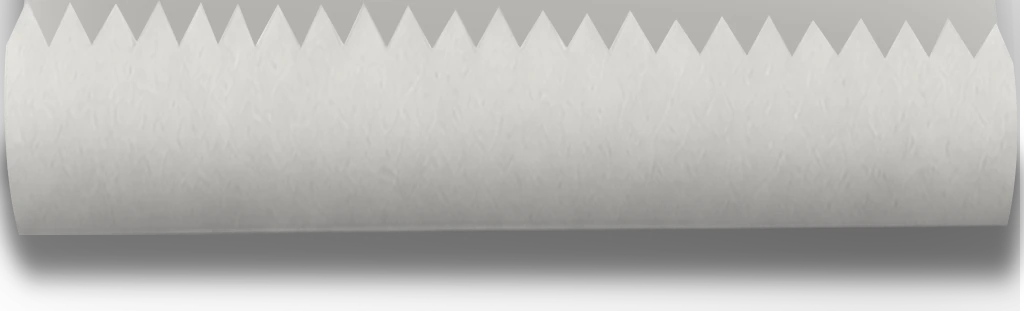
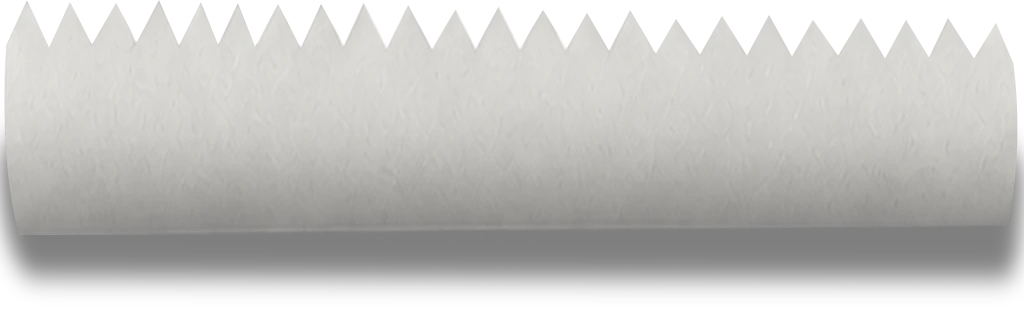
Transparent tooth gaps, warmer roll, and the dial turns with the feed
GREY LINE ABOVE THE TEETH: I cropped the asset out of the PSD's full
composite, so the gaps between the teeth were filled with the
DESIGNER'S paper rather than being transparent. On his white sheet that
is invisible; on my cream it is a grey band. Rebuilt from the curl and
its cast shadow only - no 'paper' layer - applying each layer's own
opacity by hand, since topil() ignores it. Top row is now 4/1024 opaque
instead of 1020/1024, so my cream shows between the teeth.

No recolour needed from the designer. His stock is a cool grey, mine is
cream; the roll is re-tinted onto my paper's ramp in the export.

DIAL: the thumbwheel is baked into body.webp, so rather than cut it out
and add a backing plate, a seamlessly-looping strip of its own ribs is
laid over it and scrolled. Tile measured off the art: face at
80.272%/31.761%, 119x180 = exactly 12 ribs at a 15px period, so it
loops without a seam. Driven off feed progress, NOT elapsed time, so it
turns with the paper and stops when the paper stops.
The tile comes from the middle of the face where the barrel shading is
flattest; a static gradient overlay puts the dark ends back.

Finding the face needed a flood fill from a point inside it - a plain
pink threshold kept catching the deck and the top-panel stripe and
returned a box clamped to my own search window, twice.

Bottom padding 28% -> 21%, so the logo sits right at the curl. The
client is happy for the words to run onto it.

Changed region(s): [[0.0, 0.0, 1.0, 0.5788], [0.9688, 0.492, 1.0, 0.7235]]

diff --git a/react-live/assets/ReceiptPrinter-DnYhBMFg.js b/react-live/assets/ReceiptPrinter-DnYhBMFg.js
@@ -1,0 +1,1 @@
+import{r as o,g as $,j as e}from"./index-Dh-XI5wf.js";const Fe=100,Ce=0,W=3.6,P=36,me=-1.6,Me=.45,Le=260,Oe=.88,we=.78,_=22,Se=F=>1.5+3.4*Math.pow(F/(_-1),1.2),De=1024,Ie=311,Be=.743,je=1.6,ke=7.5,$e={badge:"YOU'RE WORTH IT",title:"AMBER AFTER DARK",subtitle:"THANK YOU FOR TRUSTING ME",photos:[{label:"AFTER",src:null}],whyHeading:null,reasons:[{icon:"ruler",heading:"CUSTOM FIT",detail:["Short Almond soft-gel tips","L 2/5/4/6/9 • R 2/5/4/6/9"],note:"TEN TIPS INDIVIDUALLY MATCHED TO YOUR NAIL BEDS"},{icon:"bottle",heading:"PRODUCTS USED",detail:["LUXA base gel • Magpie Beauty builder gel","HONA color gels • Function of Vex art gel • LUXA glossy top coat"],note:"PRO PRODUCTS CHOSEN FOR STRENGTH, COLOR PAYOFF + SHINE"},{icon:"brush",heading:"HAND-PAINTED ART",detail:["10 nails • 4–6 art layers"],note:"PAINTED INDIVIDUALLY BY HAND, NOT PRINTED"},{icon:"clock",heading:"STUDIO TIME",detail:["3 hr 10 min"],note:"SIZING, SHAPING, PAINTING, CURING + DETAIL WORK"},{icon:"spark",heading:"PREP + FINISH",detail:["Cuticle-area refining • sidewall shaping","sealed free edge • high-shine top coat"],note:"FINISHED FOR A CLEAN, DURABLE, REUSABLE SET"}],price:"$95",signoff:"You're worth it",logo:"WORTH IT"},ye={ruler:"M3 9.5h18v5H3z M7 9.5v2.6 M10.2 9.5v3.4 M13.4 9.5v2.6 M16.6 9.5v3.4",bottle:"M10 3h4v3h-4z M9.2 6h5.6v13a2 2 0 0 1-2 2h-1.6a2 2 0 0 1-2-2z",brush:"M6 18c2-1 3-3 3-5l6-7 3 3-7 6c-2 0-4 1-5 3z",gem:"M5 10h14l-7 9z M5 10l3-4h8l3 4",clock:"M12 5a7 7 0 1 0 0 14 7 7 0 0 0 0-14z M12 8v4l3 2",spark:"M12 4l1.8 5.2L19 11l-5.2 1.8L12 18l-1.8-5.2L5 11l5.2-1.8z"};function ve(){let F=null;const c=()=>{if(typeof window>"u")return null;if(!F){const n=window.AudioContext||window.webkitAudioContext;if(!n)return null;F=new n}return F.state==="suspended"&&F.resume(),F},G=(n,a)=>{const r=Math.floor(n.sampleRate*a),i=n.createBuffer(1,r,n.sampleRate),u=i.getChannelData(0);for(let d=0;d<r;d++)u[d]=Math.random()*2-1;return i};return{unlock:c,feed(n,a){const r=c();if(!r)return;const i=r.currentTime,u=a/n,d=r.createOscillator();d.type="square",d.frequency.setValueAtTime(196,i),d.frequency.linearRampToValueAtTime(208,i+n);const O=r.createBiquadFilter();O.type="bandpass",O.frequency.value=1500,O.Q.value=.7;const w=r.createGain();w.gain.value=0;const T=r.createOscillator();T.type="square",T.frequency.value=u;const q=r.createGain();q.gain.value=.028,T.connect(q),q.connect(w.gain);const p=r.createGain();p.gain.setValueAtTime(1e-4,i),p.gain.linearRampToValueAtTime(1,i+.08),p.gain.setValueAtTime(1,i+n-.12),p.gain.linearRampToValueAtTime(1e-4,i+n),d.connect(O),O.connect(w),w.connect(p),p.connect(r.destination),d.start(i),d.stop(i+n+.02),T.start(i),T.stop(i+n+.02);const f=r.createBufferSource();f.buffer=G(r,n);const S=r.createBiquadFilter();S.type="highpass",S.frequency.value=4200;const v=r.createGain();v.gain.setValueAtTime(1e-4,i),v.gain.linearRampToValueAtTime(.035,i+.15),v.gain.setValueAtTime(.035,i+n-.15),v.gain.linearRampToValueAtTime(1e-4,i+n),f.connect(S),S.connect(v),v.connect(r.destination),f.start(i),f.stop(i+n)},tick(){const n=c();if(!n)return;const a=n.currentTime,r=n.createBufferSource();r.buffer=G(n,.03);const i=n.createBiquadFilter();i.type="bandpass",i.frequency.value=1900,i.Q.value=1.4;const u=n.createGain();u.gain.setValueAtTime(.055,a),u.gain.exponentialRampToValueAtTime(5e-4,a+.03),r.connect(i),i.connect(u),u.connect(n.destination),r.start(a),r.stop(a+.035)},beep(){const n=c();if(!n)return;const a=n.currentTime;[0,.14].forEach((r,i)=>{const u=n.createOscillator(),d=n.createGain();u.type="square",u.frequency.value=i?1180:880,d.gain.setValueAtTime(1e-4,a+r),d.gain.linearRampToValueAtTime(.07,a+r+.012),d.gain.exponentialRampToValueAtTime(1e-4,a+r+.1),u.connect(d),d.connect(n.destination),u.start(a+r),u.stop(a+r+.11)})}}}const Ue=o.forwardRef(function({receipt:c=$e,paperSrc:G=null,printerSrc:n=null,printerLayers:a=null,sound:r=!0,autoPlay:i=!1,playOnView:u=!0,mode:d="eject-up",scrollLength:O=Le,onComplete:w,className:T=""},q){var he;const p=d==="auto-down",f=d==="scroll-down"||p,S=o.useRef(null),v=o.useRef(null),oe=o.useRef(null),se=o.useRef(null),ae=o.useRef(null),C=o.useRef(null),K=o.useRef(null),Q=o.useRef(null),V=o.useRef(null),D=o.useRef(null),X=o.useRef(null),I=o.useRef(null),M=o.useRef(null),Z=o.useRef(r);o.useEffect(()=>{Z.current=r},[r]);const Re=o.useId().replace(/:/g,""),H=t=>`${t}-${Re}`,B=t=>`url(#${H(t)})`,ce=o.useCallback(()=>{var t;Z.current&&((t=M.current)==null||t.feed(W,P))},[]),J=o.useCallback(()=>{var t;Z.current&&((t=M.current)==null||t.beep())},[]),de=o.useCallback(()=>{var t;Z.current&&((t=M.current)==null||t.tick())},[]);o.useEffect(()=>{if(!f)return;M.current=M.current||ve();const t=S.current,s=ae.current;if(!s||!p&&!t)return;const l=()=>{var x;(x=M.current)==null||x.unlock()};window.addEventListener("pointerdown",l,{once:!0,passive:!0}),window.addEventListener("touchstart",l,{once:!0,passive:!0});const R=x=>{const g=C.current?C.current.clientHeight:0,A=v.current;if(!g||!A)return 0;const L=s.offsetTop+x*s.getBoundingClientRect().height;return Math.max(0,L-g*we)};let j=0,E=-1;const z=x=>{const g=Math.round(x*P),A=g/P;s.style.setProperty("--rp-feed",A),!p&&v.current&&(v.current.style.transform=`translateY(${-R(A).toFixed(2)}px)`),s.style.setProperty("--rp-curl",`${(A*Me).toFixed(3)}deg`),g!==E&&(g>E&&g>0&&de(),g===P&&E>=0&&E<P&&(J(),w==null||w()),E=g)};if(p){const x=()=>{const b=s.getBoundingClientRect().top;let m=null;for(const N of[".rp-seg-last",".rp-tail"]){const U=s.querySelector(N);if(U){const Y=U.getBoundingClientRect().bottom;m=m===null?Y:Math.max(m,Y)}}return m===null?s.getBoundingClientRect().height:m-b},g=()=>{const b=C.current;if(!b)return;const m=oe.current;if(m){const N=m.firstElementChild?m.firstElementChild.getBoundingClientRect().height:0;if(N>0){const U=N/_;s.style.setProperty("--rp-seg-h",`${U.toFixed(3)}px`);const Y=s.getBoundingClientRect().width,be=Y*(Ie/De)*Be;s.style.setProperty("--rp-roll-r",`${(Y*.06).toFixed(3)}px`);const ge=Math.min(.5,be/N);s.style.setProperty("--rp-roll-start",(1-ge).toFixed(5)),s.style.setProperty("--rp-roll-inv",(1/ge).toFixed(4))}}b.style.height=`${s.offsetTop+x()+24}px`};g();let A=!1;const L=()=>{A=!0};window.addEventListener("wheel",L,{passive:!0}),window.addEventListener("touchstart",L,{passive:!0}),window.addEventListener("keydown",L);const Te=s.getBoundingClientRect().top+window.scrollY,fe=x();let ne=null,re=0,ie=!1;const le=b=>{D.current&&(D.current.style.filter=`brightness(${b})`)},pe=b=>{if(ie)return;ne===null&&(ne=b);const m=(b-ne)/1e3;if(m<je)le(1+.55*Math.abs(Math.sin(m*3.2))),z(0);else{const N=Math.min(1,(m-je)/ke);if(le(N<1?1+.75*Math.abs(Math.sin(m*9)):1),z(N),se.current&&(se.current.style.backgroundPosition=`0 ${(N*fe*.55).toFixed(1)}px`),!A){const U=Te+N*fe;window.scrollTo(0,Math.max(0,U-window.innerHeight*we))}if(N>=1){le(1),ie=!0;return}}re=requestAnimationFrame(pe)};re=requestAnimationFrame(pe);const xe=()=>{g(),z(E/P)};return window.addEventListener("resize",xe),()=>{ie=!0,cancelAnimationFrame(re),window.removeEventListener("resize",xe),window.removeEventListener("wheel",L),window.removeEventListener("touchstart",L),window.removeEventListener("keydown",L),window.removeEventListener("pointerdown",l),window.removeEventListener("touchstart",l)}}const h=()=>{j=0;const x=t.getBoundingClientRect(),g=x.height-window.innerHeight,A=g<=0?0:-x.top/g;z(Math.min(1,Math.max(0,A/Oe)))},y=()=>{j||(j=requestAnimationFrame(h))};return h(),window.addEventListener("scroll",y,{passive:!0}),window.addEventListener("resize",y),()=>{window.removeEventListener("scroll",y),window.removeEventListener("resize",y),window.removeEventListener("pointerdown",l),window.removeEventListener("touchstart",l),j&&cancelAnimationFrame(j)}},[f,p,de,J,w]),o.useLayoutEffect(()=>{if(f)return;M.current=ve();const t=$.context(()=>{const s=K.current,l=Q.current,R=()=>{$.set(s,{x:0,y:0,rotation:0}),$.set(l,{yPercent:Fe,rotation:0}),$.set(V.current,{y:0,scale:1,transformOrigin:"111px 214px"}),$.set(D.current,{opacity:.35}),$.set(X.current,{opacity:.12})};R();const j=$.timeline({paused:!0,defaults:{ease:"power2.out"},onComplete:()=>w==null?void 0:w()});j.to(V.current,{scale:.9,y:3,duration:.07,ease:"power3.in"},0).to(V.current,{scale:1,y:0,duration:.2,ease:"back.out(2.4)"},.07).to(D.current,{opacity:1,duration:.12},.05).to(X.current,{opacity:.5,duration:.12},.05),j.add("feed",.34).call(ce,null,"feed").to(l,{yPercent:Ce,duration:W,ease:`steps(${P})`},"feed").to(l,{rotation:me,duration:W,ease:"power2.in"},"feed").to(s,{x:.9,y:-.6,duration:.055,repeat:Math.round(W/.055),yoyo:!0,ease:"none"},"feed"),j.add("done",`feed+=${W}`).set(s,{x:0,y:0},"done").call(J,null,"done").to(l,{rotation:me*.55,duration:.55,ease:"power2.out"},"done").to(D.current,{opacity:.35,duration:.4},"done+=0.3").to(X.current,{opacity:.12,duration:.4},"done+=0.3"),I.current=j,I.current.__reset=R},C);return()=>{t.revert(),I.current=null}},[f,w,ce,J]);const k=o.useCallback(()=>{var s,l;const t=I.current;if(t){if((s=M.current)==null||s.unlock(),(l=t.__reset)==null||l.call(t),window.matchMedia("(prefers-reduced-motion: reduce)").matches){t.progress(1);return}t.restart()}},[]);o.useImperativeHandle(q,()=>({play:k,reset:()=>{var t,s,l;(t=I.current)==null||t.pause(0),(l=(s=I.current)==null?void 0:s.__reset)==null||l.call(s)},get timeline(){return I.current}}),[k]),o.useEffect(()=>{i&&!f&&k()},[i,f,k]),o.useEffect(()=>{if(f||!u||i||!C.current)return;const t=C.current,s=new IntersectionObserver(l=>{l.forEach(R=>{R.isIntersecting&&(k(),s.disconnect())})},{threshold:.35});return s.observe(t),()=>s.disconnect()},[f,u,i,k]);const Ee="./printer/curl.webp",Ne="./printer/dial.webp";(()=>{const j=h=>2.6*(1-Math.sin(Math.PI*Math.min(1,Math.max(0,h)))),E=[];for(let h=0;h<=14;h++){const y=h/14;E.push(`${(100-j(y)).toFixed(2)}% ${(y*(100-1.5)).toFixed(2)}%`)}for(let h=28;h>=0;h--){const y=h/28,x=100-1.5*(1-Math.sin(Math.PI*y));E.push(`${(y*100).toFixed(2)}% ${(h%2?x:x-1.26).toFixed(2)}%`)}for(let h=14;h>=0;h--){const y=h/14;E.push(`${j(y).toFixed(2)}% ${(y*(100-1.5)).toFixed(2)}%`)}return`polygon(${E.join(",")})`})();const Ae=t=>{let s=null;for(let l=_-1;l>=0;l--){const R=s;s=e.jsxs("div",{className:`rp-seg${l===_-1?" rp-seg-last":""}`,style:{"--i":l,"--a":`${Se(l).toFixed(2)}deg`},children:[e.jsx("div",{className:"rp-seg-win",children:e.jsx("div",{className:"rp-seg-slide","aria-hidden":"true",children:t})}),l===_-1?e.jsx("div",{className:"rp-tail-win","aria-hidden":"true",children:e.jsx("img",{className:"rp-tail",src:Ee,alt:"",draggable:"false"})}):null,R]},l)}return s},ee=c.photos||[],te=G?e.jsx("img",{src:G,alt:"",draggable:"false"}):e.jsxs("div",{className:"rp-receipt",children:[e.jsx("div",{className:"rp-badge",children:c.badge}),c.title?e.jsxs("div",{className:"rp-title",children:[c.title," ",e.jsx("span",{"aria-hidden":"true",children:"♡"})]}):null,e.jsx("div",{className:"rp-dots"}),c.subtitle?e.jsx("div",{className:"rp-subtitle",children:c.subtitle}):null,ee.length?e.jsxs("div",{className:`rp-shots ${ee.length>1?"rp-shots-pair":"rp-shots-one"}`,children:[ee.map((t,s)=>e.jsxs("figure",{className:"rp-shot",children:[e.jsx("figcaption",{children:t.label}),e.jsx("div",{className:"rp-shot-img",children:t.src?e.jsx("img",{src:t.src,alt:t.alt||"",draggable:"false"}):null})]},s)),ee.length>1?e.jsx("span",{className:"rp-arrow","aria-hidden":"true",children:"→"}):null]}):null,e.jsx("div",{className:"rp-dots"}),c.whyHeading?e.jsx("div",{className:"rp-why",children:c.whyHeading}):null,e.jsx("ul",{className:"rp-reasons",children:(he=c.reasons)==null?void 0:he.map((t,s)=>e.jsxs("li",{children:[e.jsx("span",{className:"rp-icon","aria-hidden":"true",children:e.jsx("svg",{viewBox:"0 0 24 24",fill:"none",stroke:"currentColor",strokeWidth:"1.6",strokeLinecap:"round",strokeLinejoin:"round",children:e.jsx("path",{d:ye[t.icon]||ye.spark})})}),e.jsxs("span",{className:"rp-reason-text",children:[e.jsx("b",{children:t.heading||t.title}),(t.detail||[]).map((l,R)=>e.jsx("i",{children:l},R)),t.note?e.jsx("small",{children:t.note}):null]})]},s))}),e.jsx("div",{className:"rp-dots"}),c.price?e.jsx("div",{className:"rp-price",children:c.price}):null,c.signoff?e.jsxs("div",{className:"rp-sign",children:[c.signoff," ",e.jsx("span",{"aria-hidden":"true",children:"♡"})]}):null,c.logo?e.jsx("div",{className:"rp-logo",children:c.logo}):null]}),ue=a?e.jsxs("div",{className:"rp-body rp-body-layers",ref:K,children:[e.jsx("img",{className:"rp-layer",src:a.backing,alt:"",draggable:"false"}),e.jsx("img",{className:"rp-layer",src:a.body,alt:"",draggable:"false"}),e.jsx("img",{className:"rp-layer rp-layer-button",src:a.button,alt:"",ref:V,draggable:"false"}),e.jsx("img",{className:"rp-layer",src:a.lamp,alt:"",ref:D,draggable:"false"}),e.jsx("div",{className:"rp-dial",ref:se,"aria-hidden":"true",style:{backgroundImage:`url(${Ne})`}})]}):n?e.jsx("img",{className:"rp-body",src:n,alt:"",ref:K,draggable:"false"}):e.jsxs("svg",{className:"rp-body",ref:K,viewBox:"0 0 600 381",xmlns:"http://www.w3.org/2000/svg","aria-hidden":"true",children:[e.jsxs("defs",{children:[e.jsxs("linearGradient",{id:H("shell"),x1:"0",y1:"0",x2:"0",y2:"1",children:[e.jsx("stop",{offset:"0",stopColor:"#F6EFE4"}),e.jsx("stop",{offset:"1",stopColor:"#E4D8C7"})]}),e.jsxs("linearGradient",{id:H("deck"),x1:"0",y1:"0",x2:"0",y2:"1",children:[e.jsx("stop",{offset:"0",stopColor:"#EFE6D8"}),e.jsx("stop",{offset:"1",stopColor:"#DDD0BD"})]}),e.jsxs("linearGradient",{id:H("base"),x1:"0",y1:"0",x2:"0",y2:"1",children:[e.jsx("stop",{offset:"0",stopColor:"#8FB6DA"}),e.jsx("stop",{offset:"1",stopColor:"#6E97C2"})]}),e.jsxs("linearGradient",{id:H("slot"),x1:"0",y1:"0",x2:"0",y2:"1",children:[e.jsx("stop",{offset:"0",stopColor:"#33465d"}),e.jsx("stop",{offset:"1",stopColor:"#151f2c"})]}),e.jsx("filter",{id:H("soft"),x:"-30%",y:"-30%",width:"160%",height:"160%",children:e.jsx("feGaussianBlur",{stdDeviation:"6"})})]}),e.jsxs("g",{transform:"translate(-46.154, 0) scale(1.153846)",children:[f?null:e.jsx("ellipse",{cx:"300",cy:"316",rx:"222",ry:"12",fill:"#000",opacity:"0.13",filter:B("soft")}),e.jsx("rect",{x:"76",y:"238",width:"448",height:"72",rx:"26",fill:B("base")}),e.jsx("rect",{x:"76",y:"238",width:"448",height:"12",rx:"6",fill:"#A8C8E4",opacity:"0.5"}),e.jsx("rect",{x:"52",y:"96",width:"496",height:"166",rx:"28",fill:B("shell")}),e.jsx("rect",{x:"40",y:"52",width:"520",height:"60",rx:"24",fill:B("deck")}),e.jsx("rect",{x:"58",y:"60",width:"484",height:"12",rx:"6",fill:"#FFFBF4",opacity:"0.6"}),f?e.jsxs("g",{children:[e.jsx("rect",{x:"150",y:"284",width:"300",height:"18",rx:"7",fill:B("slot")}),e.jsx("rect",{x:"150",y:"284",width:"300",height:"6",rx:"3",fill:"#0c1219",opacity:"0.55"}),e.jsx("rect",{x:"146",y:"300",width:"308",height:"9",rx:"4.5",fill:"#5C82AC"}),e.jsx("rect",{x:"122",y:"282",width:"26",height:"22",rx:"7",fill:"#7FA6CC"}),e.jsx("rect",{x:"452",y:"282",width:"26",height:"22",rx:"7",fill:"#7FA6CC"})]}):e.jsxs("g",{children:[e.jsx("rect",{x:"150",y:"56",width:"300",height:"20",rx:"7",fill:B("slot")}),e.jsx("rect",{x:"150",y:"70",width:"300",height:"6",rx:"3",fill:"#0c1219",opacity:"0.55"}),e.jsx("rect",{x:"146",y:"76",width:"308",height:"9",rx:"4.5",fill:"#CBBCA6"}),e.jsx("rect",{x:"122",y:"56",width:"26",height:"22",rx:"7",fill:"#C3B39C"}),e.jsx("rect",{x:"452",y:"56",width:"26",height:"22",rx:"7",fill:"#C3B39C"})]}),e.jsxs("g",{ref:V,children:[e.jsx("circle",{cx:"111",cy:"218",r:"27",fill:"#C9B9A6"}),e.jsx("circle",{cx:"111",cy:"214",r:"25",fill:"#E9A9B2"}),e.jsx("circle",{cx:"111",cy:"209",r:"21",fill:"#F0B8C0"})]}),e.jsxs("g",{children:[e.jsx("rect",{x:"452",y:"196",width:"62",height:"24",rx:"12",fill:"#C8B49A"}),e.jsx("rect",{x:"455",y:"199",width:"56",height:"18",rx:"9",fill:"#2b2118"}),e.jsx("circle",{ref:X,cx:"483",cy:"208",r:"17",fill:"#5FBF7A",opacity:"0.12",filter:B("soft")}),e.jsx("circle",{ref:D,cx:"483",cy:"208",r:"7",fill:"#5FBF7A",opacity:"0.35"})]}),e.jsxs("g",{fill:"#D8C9B4",children:[e.jsx("rect",{x:"168",y:"150",width:"170",height:"8",rx:"4"}),e.jsx("rect",{x:"168",y:"172",width:"170",height:"8",rx:"4"}),e.jsx("rect",{x:"168",y:"194",width:"124",height:"8",rx:"4"})]})]})]});if(f){const t=p?({children:s})=>e.jsx("div",{className:`rp-auto ${T}`,children:s}):({children:s})=>e.jsx("div",{className:`rp-scroll ${T}`,ref:S,style:{height:`${O}svh`},children:s});return e.jsx(t,{children:e.jsx("div",{className:p?"rp-flow":"rp-sticky",children:e.jsx("div",{className:`rp-stage rp-stage-down ${p?"rp-stage-auto":""}`,ref:C,children:e.jsxs("div",{className:`rp-machine ${a?"rp-machine-art":""}`,ref:v,children:[ue,a?e.jsx("div",{className:"rp-slot-cover","aria-hidden":"true"}):null,a?e.jsx("div",{className:"rp-slot-mouth","aria-hidden":"true"}):null,e.jsxs("div",{className:"rp-feed",ref:ae,children:[a?e.jsxs("div",{className:"rp-curl",style:{"--n":_},children:[e.jsx("div",{className:"rp-measure",ref:oe,children:e.jsx("div",{className:"rp-paper rp-paper-down",children:te})}),Ae(e.jsx("div",{className:"rp-paper rp-paper-down",ref:Q,children:te}))]}):e.jsx("div",{className:"rp-paper rp-paper-down",ref:Q,children:te}),e.jsx("div",{className:"rp-lead","aria-hidden":"true"})]})]})})})})}return e.jsxs("div",{className:`rp-stage ${T}`,ref:C,onClick:k,children:[e.jsx("div",{className:"rp-paper-stage",children:e.jsx("div",{className:"rp-paper",ref:Q,children:te})}),ue]})});export{Ue as R};

diff --git a/react-live/assets/ReceiptPrinter-BjAdDi67.css b/react-live/assets/ReceiptPrinter-BjAdDi67.css
@@ -1,0 +1,1 @@
+.rp-stage{--rp-body-top: 50.54%;--rp-slot-y: 59.46%;--rp-ink: #14315C;--rp-pink: #E0658F;--rp-paper: #FCFAF5;position:relative;width:100%;aspect-ratio:600 / 930;margin:0 auto;isolation:isolate;container-type:inline-size;overflow:hidden;touch-action:manipulation;cursor:pointer}.rp-stage *{box-sizing:border-box}.rp-body{position:absolute;top:var(--rp-body-top);left:0;width:100%;height:auto;will-change:transform;z-index:3}.rp-paper-stage{position:absolute;left:0;right:0;top:0;height:var(--rp-slot-y);overflow:hidden;z-index:2;pointer-events:none}.rp-paper{position:absolute;bottom:0;left:21.5%;width:56.9%;aspect-ratio:296 / 460;background:var(--rp-paper);transform-origin:50% 100%;will-change:transform;backface-visibility:hidden;filter:drop-shadow(0 -2px 3px rgba(20,25,35,.13)) drop-shadow(0 -10px 20px rgba(20,25,35,.14))}.rp-paper img{display:block;width:100%;height:100%;object-fit:cover}.rp-paper:before{content:"";position:absolute;top:0;right:0;bottom:0;left:0;background:linear-gradient(100deg,#0000000d,#0000 18%,#0000 82%,#0000000d);pointer-events:none;z-index:3}.rp-receipt{position:absolute;top:0;right:0;bottom:0;left:0;padding:8% 9%;display:flex;flex-direction:column;font-family:SFMono-Regular,ui-monospace,Menlo,Consolas,Courier New,monospace;color:#3d3a35;font-size:2.05cqw;line-height:1.8;letter-spacing:.02em}.rp-head{text-align:center;font-weight:800;letter-spacing:.22em;text-indent:.22em;font-size:3.1cqw;color:var(--rp-ink);margin-bottom:2%}.rp-meta{text-align:center;color:#8d877e;font-size:1.85cqw;line-height:1.6}.rp-rule{border-top:1px dashed #c9c2b6;margin:4.5% 0 3.5%}.rp-row{display:flex;justify-content:space-between;align-items:baseline;gap:6%;line-height:1.45;margin-bottom:1.4%}.rp-row span:first-child{min-width:0;overflow-wrap:anywhere}.rp-row span:last-child{flex:none;white-space:nowrap;font-variant-numeric:tabular-nums}.rp-total{font-weight:800;color:var(--rp-ink);font-size:2.5cqw;margin-top:2%}.rp-barcode{display:flex;align-items:flex-end;gap:2px;height:9%;margin:auto 0 4%}.rp-barcode i{display:block;height:100%;background:#3d3a35}.rp-foot{text-align:center;color:var(--rp-pink);font-family:Snell Roundhand,Segoe Script,Brush Script MT,cursive;font-style:italic;font-size:3cqw}.rp-scroll{position:relative;width:100%}.rp-sticky{position:sticky;top:0;height:100svh;display:flex;align-items:flex-start;justify-content:center}.rp-stage-down{position:relative;width:100%;height:100svh;aspect-ratio:auto;overflow:hidden}.rp-machine{will-change:transform}.rp-machine{position:relative;width:100%}.rp-stage-down .rp-body{position:relative;top:auto;width:100%;height:auto;display:block;z-index:3}.rp-feed{position:absolute;top:93.6%;left:21.5%;width:56.9%;aspect-ratio:296 / 460;z-index:4;perspective:1400px;perspective-origin:50% 0;transform:rotate(var(--rp-curl,0deg));transform-origin:50% 0;pointer-events:none}.rp-paper-down{position:absolute;top:0;right:0;left:0;width:100%;bottom:auto;transform:none;clip-path:inset(0 0 calc((1 - var(--rp-feed,0)) * 100%) 0);filter:drop-shadow(0 2px 7px rgba(0,0,0,.21)) drop-shadow(0 9px 26px rgba(0,0,0,.16))}.rp-lead{position:absolute;left:0;right:0;top:calc(var(--rp-feed,0) * 100%);height:3px;transform:translateY(-3px);background:linear-gradient(to bottom,#1419230d,#14192329);z-index:5}.rp-stage-down .rp-body-layers,.rp-body-layers{position:relative;width:105%;left:-2.5%;height:auto;aspect-ratio:1617 / 1039;display:block}.rp-layer{position:absolute;top:0;right:0;bottom:0;left:0;width:100%;height:100%;display:block}.rp-layer-button{transform-origin:50% 50%}.rp-dial{position:absolute;left:80.272%;top:31.761%;width:7.359%;height:17.998%;z-index:4;background-repeat:repeat-y;background-size:100% auto;background-position:0 0;border-radius:14%/8%;pointer-events:none}.rp-dial:after{content:"";position:absolute;top:0;right:0;bottom:0;left:0;border-radius:inherit;background:linear-gradient(180deg,#68303a75,#68303a1a 14%,#ffffff1f 48%,#68303a1a 86%,#68303a7a)}.rp-stage-down .rp-body-layers{z-index:3}.rp-machine-art .rp-feed{top:59.48%;left:19%;width:62%;aspect-ratio:auto;height:auto}.rp-machine-art .rp-paper-down{position:relative;inset:auto;width:100%;height:auto}.rp-machine-art .rp-paper-down{--rp-paper:#FAF7F2;background:var(--rp-paper);transform:none}.rp-machine-art .rp-paper-down:after{content:"";position:absolute;top:0;right:0;bottom:0;left:0;background:linear-gradient(90deg,#503c324d,#503c3221 6%,#503c3205 20%,#ffffff6b 46%,#ffffff6b 54%,#503c3205 80%,#503c3221 94%,#503c324d),linear-gradient(180deg,#503c3233,#0000 13%);pointer-events:none;z-index:4}.rp-machine-art .rp-receipt{position:relative;inset:auto;display:block;padding:6.5% 7.5% 21%;font-family:ui-sans-serif,system-ui,-apple-system,Segoe UI,Roboto,Helvetica,Arial,sans-serif;color:#1b2e5a;text-align:center;font-size:3.18cqw;line-height:1.35;letter-spacing:0}.rp-badge{display:inline-block;background:#ce6180;color:#fff;font-size:2.8cqw;font-weight:700;letter-spacing:.13em;padding:.75em 1.7em;border-radius:999px}.rp-title{font-size:6.15cqw;font-weight:800;letter-spacing:.005em;margin:.5em 0 .35em}.rp-title span{color:#ce6180;font-weight:400}.rp-dots{border-top:2px dotted #E7BCC8;margin:3.5% 0}.rp-subtitle{color:#ce6180;font-size:2.56cqw;font-weight:600;letter-spacing:.2em;margin-bottom:5%}.rp-shots{display:flex;align-items:flex-start;justify-content:center;gap:3%;position:relative}.rp-shots-one .rp-shot{width:66%}.rp-shots-pair .rp-shot{width:48.5%}.rp-shot{margin:0}.rp-shot figcaption{font-size:2.56cqw;font-weight:800;letter-spacing:.14em;margin-bottom:.7em}.rp-shot-img{width:100%;aspect-ratio:442 / 349;background:#d9cdc2;border-radius:3px;overflow:hidden}.rp-shot-img img{display:block;width:100%;height:100%;object-fit:cover}.rp-arrow{position:absolute;left:50%;top:52%;transform:translate(-50%,-50%);width:5cqw;height:5cqw;display:grid;place-items:center;border-radius:50%;background:#ce6180;color:#fff;font-size:2.4cqw}.rp-why{font-size:4.36cqw;font-weight:800;letter-spacing:.02em;margin-bottom:3%}.rp-reasons{list-style:none;margin:0;padding:0;text-align:left}.rp-reasons li{display:flex;align-items:flex-start;gap:3.5%;padding:3% 0;border-bottom:1.5px dotted #EFD3DB}.rp-reasons li:last-child{border-bottom:0}.rp-icon{flex:0 0 auto;width:5.4cqw;height:5.4cqw;border-radius:50%;background:#f7e4ea;color:#ce6180;display:grid;place-items:center}.rp-icon svg{width:62%;height:62%}.rp-reason-text{display:block;min-width:0}.rp-reason-text b{display:block;font-size:3.49cqw;font-weight:800;line-height:1.2;letter-spacing:.01em;overflow-wrap:anywhere}.rp-reason-text i{display:block;font-family:Georgia,Times New Roman,serif;font-style:normal;font-size:3.18cqw;line-height:1.35;margin-top:.22em;overflow-wrap:anywhere}.rp-reason-text small{display:block;font-size:2.28cqw;font-weight:600;letter-spacing:.09em;color:#8e93a8;line-height:1.3;margin-top:.45em;overflow-wrap:anywhere}.rp-price{font-family:Georgia,Times New Roman,serif;font-size:13.3cqw;font-weight:700;letter-spacing:-.01em;margin:4% 0 1%}.rp-sign{font-family:Snell Roundhand,Segoe Script,Brush Script MT,cursive;font-style:italic;color:#ce6180;font-size:4.4cqw;margin-bottom:4%}.rp-logo{font-size:2.6cqw;font-weight:800;letter-spacing:.3em;color:#c9a227}.rp-machine-art .rp-lead{opacity:clamp(0,calc((1 - var(--rp-feed,0)) * 8),1)}.rp-stage:not(.rp-stage-down) .rp-receipt{display:block;text-align:center;font-family:ui-sans-serif,system-ui,-apple-system,Segoe UI,Roboto,sans-serif;color:#1b2e5a;padding:6% 7%;overflow:hidden}.rp-auto{position:relative;width:100%}.rp-flow{display:block}.rp-stage-auto{height:auto;overflow:visible}.rp-machine-art .rp-slot-cover{position:absolute;top:55.4%;left:10%;width:80%;height:4.6%;z-index:4;background:linear-gradient(90deg,#8DBAD9 0 10.1%,transparent 10.1% 89.9%,#8DBAD9 89.9% 100%);pointer-events:none}.rp-machine-art .rp-slot-mouth{position:absolute;top:56.4%;left:18.1%;width:63.8%;height:3.1%;z-index:6;border-radius:0 0 5px 5px;background:linear-gradient(180deg,#0d131b,#18202c 60%,#26303f);box-shadow:0 1px #ffffff1a,0 3px 9px #d4749473,0 7px 20px #d4749438;pointer-events:none}.rp-curl{position:relative;transform-style:preserve-3d}.rp-seg{position:relative;height:var(--rp-seg-h, 40px);transform-origin:50% 0;transform:rotateX(var(--a));transform-style:preserve-3d}.rp-seg>.rp-seg{position:absolute;top:100%;left:0;right:0}.rp-seg-win{position:absolute;top:0;right:0;bottom:0;left:0;height:calc(100% + 1px);overflow:hidden;clip-path:inset(0 0 calc((1 - clamp(0,calc((var(--rp-feed,0) - var(--i) / var(--n)) * var(--n)),1))*100%) 0)}.rp-seg-slide{position:absolute;left:0;right:0;top:calc(var(--rp-seg-h, 40px) * var(--i) * -1);height:calc(var(--rp-seg-h, 40px) * var(--n))}.rp-curl .rp-paper-down{position:absolute;top:0;right:0;bottom:0;left:0;filter:none}.rp-measure{position:absolute;inset:0 0 auto 0;clip-path:inset(50%);pointer-events:none}.rp-measure .rp-paper-down{position:relative;inset:auto;clip-path:none;filter:none}.rp-seg-win{box-shadow:-14px 0 20px -14px #00000073,14px 0 20px -14px #00000073}.rp-seg-last .rp-seg-win{height:100%;border-radius:0 0 var(--rp-roll-r, 20px) var(--rp-roll-r, 20px)}.rp-tail-win{position:absolute;left:.95%;right:.95%;bottom:0;aspect-ratio:1024 / 311;height:auto;transform:translateY(25.7%) translateZ(1px);clip-path:inset(0 0 calc((1 - clamp(0,calc((var(--rp-feed,0) - var(--rp-roll-start,1)) * var(--rp-roll-inv,1)),1))*100%) 0);pointer-events:none}.rp-tail{position:absolute;top:0;right:0;bottom:0;left:0;width:100%;height:100%;display:block;object-fit:fill}

diff --git a/react-live/assets/main-D4E7DDmF.js b/react-live/assets/main-D4E7DDmF.js
@@ -1,0 +1,1 @@
+import{r,j as e,c as i,R as l}from"./index-Dh-XI5wf.js";import{P as o}from"./PolaroidCamera-ClSxy_sq.js";import{R as d}from"./ReceiptPrinter-DnYhBMFg.js";function h(){const c=r.useRef(null),t=r.useRef(null),[n,a]=r.useState(!0);return r.useEffect(()=>{window.__cam=c.current,window.__printer=t.current},[]),e.jsxs("main",{className:"page",children:[e.jsxs("section",{className:"hero",children:[e.jsxs("div",{className:"copy",children:[e.jsx("p",{className:"eyebrow",children:"React + GSAP"}),e.jsx("h1",{children:"Polaroid capture"}),e.jsx("p",{className:"lede",children:"One component, one import. Flash, shutter sound, recoil and both prints run off a single GSAP timeline."})]}),e.jsx("div",{className:"camera-slot",children:e.jsx(o,{ref:c,sound:n,playOnView:!0})}),e.jsxs("div",{className:"controls",children:[e.jsx("button",{className:"btn",onClick:()=>{var s;return(s=c.current)==null?void 0:s.play()},children:"Take the photo"}),e.jsxs("label",{className:"snd",children:[e.jsx("input",{type:"checkbox",checked:n,onChange:s=>a(s.target.checked)}),"sound"]})]})]}),e.jsxs("section",{className:"hero",children:[e.jsxs("div",{className:"copy",children:[e.jsx("p",{className:"eyebrow",children:"React + GSAP"}),e.jsx("h1",{children:"Invoice printer"}),e.jsx("p",{className:"lede",children:"Ejects upward, in discrete line steps rather than a smooth glide. The paper travels; the heading leads because it is the top of the job."})]}),e.jsx("div",{className:"camera-slot",children:e.jsx(d,{ref:t,sound:n,playOnView:!0})}),e.jsx("div",{className:"controls",children:e.jsx("button",{className:"btn",onClick:()=>{var s;return(s=t.current)==null?void 0:s.play()},children:"Print the invoice"})})]})]})}i(document.getElementById("root")).render(e.jsx(l.StrictMode,{children:e.jsx(h,{})}));

diff --git a/react-live/index.html b/react-live/index.html
@@ -4,12 +4,12 @@
     <meta charset="UTF-8" />
     <meta name="viewport" content="width=device-width, initial-scale=1, viewport-fit=cover" />
     <title>Polaroid Camera — React + GSAP</title>
-    <script type="module" crossorigin src="./assets/main-C36p0wNP.js"></script>
+    <script type="module" crossorigin src="./assets/main-D4E7DDmF.js"></script>
     <link rel="modulepreload" crossorigin href="./assets/index-Dh-XI5wf.js">
     <link rel="modulepreload" crossorigin href="./assets/PolaroidCamera-ClSxy_sq.js">
-    <link rel="modulepreload" crossorigin href="./assets/ReceiptPrinter-BVH5iLNm.js">
+    <link rel="modulepreload" crossorigin href="./assets/ReceiptPrinter-DnYhBMFg.js">
     <link rel="stylesheet" crossorigin href="./assets/PolaroidCamera-PcxaIUoG.css">
-    <link rel="stylesheet" crossorigin href="./assets/ReceiptPrinter-DFX6Ziif.css">
+    <link rel="stylesheet" crossorigin href="./assets/ReceiptPrinter-BjAdDi67.css">
     <link rel="stylesheet" crossorigin href="./assets/main-BMUArjTb.css">
   </head>
   <body>

diff --git a/react-live/printer-scroll.html b/react-live/printer-scroll.html
@@ -4,10 +4,10 @@
     <meta charset="UTF-8" />
     <meta name="viewport" content="width=device-width, initial-scale=1, viewport-fit=cover" />
     <title>printer — scroll to print</title>
-    <script type="module" crossorigin src="./assets/printerScroll-BGPwhzcU.js"></script>
+    <script type="module" crossorigin src="./assets/printerScroll-CxowMqFm.js"></script>
     <link rel="modulepreload" crossorigin href="./assets/index-Dh-XI5wf.js">
-    <link rel="modulepreload" crossorigin href="./assets/ReceiptPrinter-BVH5iLNm.js">
-    <link rel="stylesheet" crossorigin href="./assets/ReceiptPrinter-DFX6Ziif.css">
+    <link rel="modulepreload" crossorigin href="./assets/ReceiptPrinter-DnYhBMFg.js">
+    <link rel="stylesheet" crossorigin href="./assets/ReceiptPrinter-BjAdDi67.css">
     <link rel="stylesheet" crossorigin href="./assets/fullpage-C-RtjwXX.css">
   </head>
   <body>

diff --git a/react-live/printer.html b/react-live/printer.html
@@ -4,10 +4,10 @@
     <meta charset="UTF-8" />
     <meta name="viewport" content="width=device-width, initial-scale=1, viewport-fit=cover" />
     <title>printer — full page</title>
-    <script type="module" crossorigin src="./assets/printer-BGPwhzcU.js"></script>
+    <script type="module" crossorigin src="./assets/printer-CxowMqFm.js"></script>
     <link rel="modulepreload" crossorigin href="./assets/index-Dh-XI5wf.js">
-    <link rel="modulepreload" crossorigin href="./assets/ReceiptPrinter-BVH5iLNm.js">
-    <link rel="stylesheet" crossorigin href="./assets/ReceiptPrinter-DFX6Ziif.css">
+    <link rel="modulepreload" crossorigin href="./assets/ReceiptPrinter-DnYhBMFg.js">
+    <link rel="stylesheet" crossorigin href="./assets/ReceiptPrinter-BjAdDi67.css">
     <link rel="stylesheet" crossorigin href="./assets/fullpage-C-RtjwXX.css">
   </head>
   <body>

diff --git a/react-live/assets/printer-CxowMqFm.js b/react-live/assets/printer-CxowMqFm.js
@@ -1,0 +1,1 @@
+import{c as t,j as e,R as n}from"./index-Dh-XI5wf.js";import{R as o}from"./ReceiptPrinter-DnYhBMFg.js";/* empty css                 */const r="./",i={backing:`${r}printer/backing.webp`,body:`${r}printer/body.webp`,button:`${r}printer/button.webp`,lamp:`${r}printer/lamp.webp`};function s(){return e.jsx("div",{className:"fp-scroll",children:e.jsx("div",{className:"fp-scroll-inner",children:e.jsx(o,{mode:"auto-down",sound:!0,printerLayers:i})})})}t(document.getElementById("root")).render(e.jsx(n.StrictMode,{children:e.jsx(s,{})}));

diff --git a/react-live/assets/printerScroll-CxowMqFm.js b/react-live/assets/printerScroll-CxowMqFm.js
@@ -1,0 +1,1 @@
+import{c as t,j as e,R as n}from"./index-Dh-XI5wf.js";import{R as o}from"./ReceiptPrinter-DnYhBMFg.js";/* empty css                 */const r="./",i={backing:`${r}printer/backing.webp`,body:`${r}printer/body.webp`,button:`${r}printer/button.webp`,lamp:`${r}printer/lamp.webp`};function s(){return e.jsx("div",{className:"fp-scroll",children:e.jsx("div",{className:"fp-scroll-inner",children:e.jsx(o,{mode:"auto-down",sound:!0,printerLayers:i})})})}t(document.getElementById("root")).render(e.jsx(n.StrictMode,{children:e.jsx(s,{})}));
